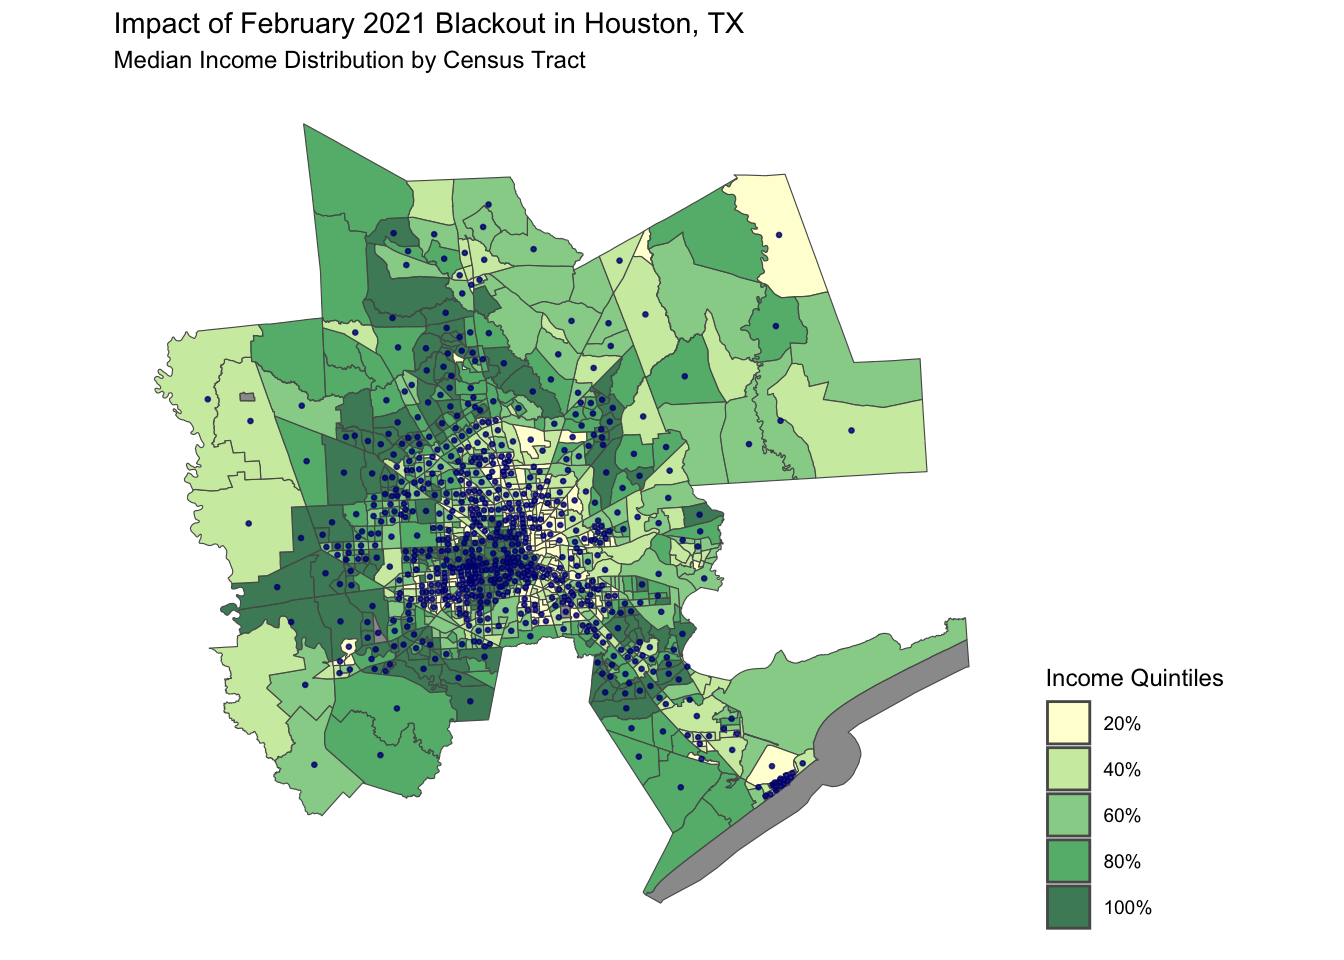
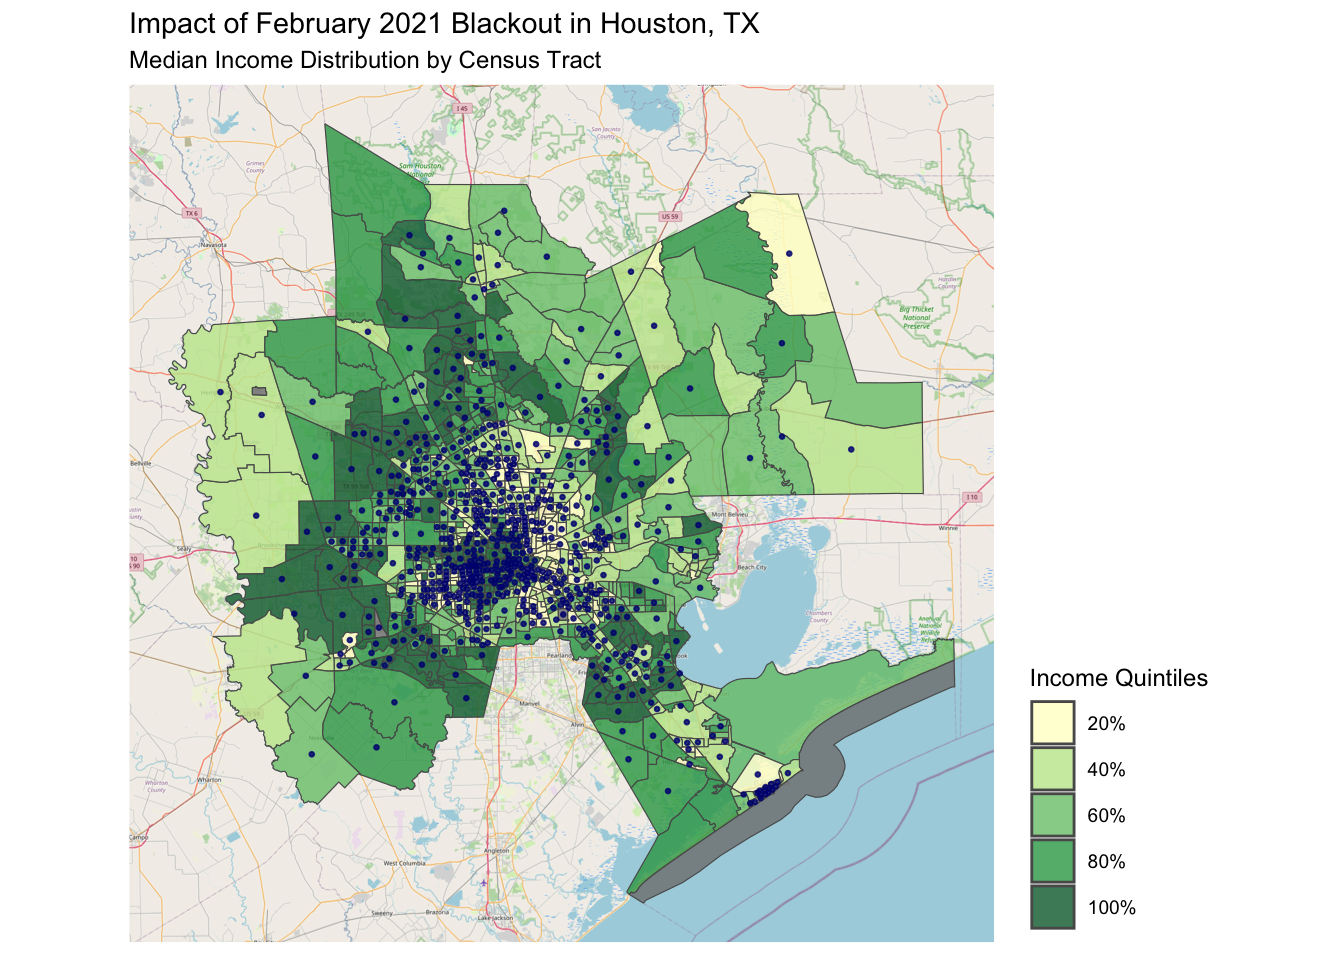
improved visualization with a basemap

diff --git a/docs/posts/2023-12-14-texas-great-blackout/index.html b/docs/posts/2023-12-14-texas-great-blackout/index.html
@@ -366,9 +366,20 @@ background-size: cover;
 <span id="cb3-4"><a href="#cb3-4" aria-hidden="true" tabindex="-1"></a><span class="co"># set locations that didn't experience blackout to NA </span></span>
 <span id="cb3-5"><a href="#cb3-5" aria-hidden="true" tabindex="-1"></a>blkout[blkout <span class="sc">==</span> <span class="cn">FALSE</span>] <span class="ot">&lt;-</span> <span class="cn">NA</span> </span></code><button title="Copy to Clipboard" class="code-copy-button"><i class="bi"></i></button></pre></div>
 </div>
-<p>To proceed, I narrowed down the blackout locations to the Houston metropolitan area by cropping the blackout raster to the area of interest.&nbsp; To do so I converted the raster with the blackout locations into an <code>sf</code> object and constructed a <code>polygon</code> with the boundaries of Houston metropolitan area.<br>
-</p>
-<p>⚠To maintain an accuracy of analysis I applied EPSG: 3083 (NAD83 / Texas Centric Albers Equal Area) projection for the cropped blackout dataset, specifically the dataframe with Houston metropolitan area geometries.</p>
+<p>To proceed, I narrowed down the blackout locations to the Houston metropolitan area by cropping the blackout raster to the area of interest.&nbsp; To do so I converted the raster with the blackout locations into an <code>sf</code> object and constructed a <code>polygon</code> with the boundaries of Houston metropolitan area.</p>
+<div class="callout callout-style-default callout-note callout-titled">
+<div class="callout-header d-flex align-content-center">
+<div class="callout-icon-container">
+<i class="callout-icon"></i>
+</div>
+<div class="callout-title-container flex-fill">
+Note
+</div>
+</div>
+<div class="callout-body-container callout-body">
+<p>To maintain an accuracy of analysis I applied EPSG: 3083 (NAD83 / Texas Centric Albers Equal Area) projection for the cropped blackout dataset, specifically the dataframe with Houston metropolitan area geometries.</p>
+</div>
+</div>
 <div class="cell">
 <div class="sourceCode cell-code" id="cb4"><pre class="sourceCode r code-with-copy"><code class="sourceCode r"><span id="cb4-1"><a href="#cb4-1" aria-hidden="true" tabindex="-1"></a><span class="co"># convert blackout mask to sf object</span></span>
 <span id="cb4-2"><a href="#cb4-2" aria-hidden="true" tabindex="-1"></a>blkout_sf <span class="ot">&lt;-</span> blkout <span class="sc">%&gt;%</span></span>
@@ -546,16 +557,17 @@ OR type in ('residential', 'apartments', 'house', 'static_caravan', 'detached')<
 <span id="cb15-19"><a href="#cb15-19" aria-hidden="true" tabindex="-1"></a></span>
 <span id="cb15-20"><a href="#cb15-20" aria-hidden="true" tabindex="-1"></a><span class="co"># plot a map</span></span>
 <span id="cb15-21"><a href="#cb15-21" aria-hidden="true" tabindex="-1"></a>m1 <span class="ot">&lt;-</span> <span class="fu">ggplot</span>() <span class="sc">+</span></span>
-<span id="cb15-22"><a href="#cb15-22" aria-hidden="true" tabindex="-1"></a>  <span class="fu">geom_sf</span>(<span class="at">data =</span> hstn_ct_blkout, <span class="fu">aes</span>(<span class="at">fill =</span> income_quintile), <span class="at">alpha =</span> <span class="fl">0.8</span>) <span class="sc">+</span></span>
-<span id="cb15-23"><a href="#cb15-23" aria-hidden="true" tabindex="-1"></a>  <span class="fu">scale_fill_manual</span>(<span class="at">values =</span> <span class="fu">setNames</span>(color_palette, quintiles_labs),</span>
-<span id="cb15-24"><a href="#cb15-24" aria-hidden="true" tabindex="-1"></a>                    <span class="at">name =</span> <span class="st">'Income Quintiles'</span>) <span class="sc">+</span></span>
-<span id="cb15-25"><a href="#cb15-25" aria-hidden="true" tabindex="-1"></a>  <span class="fu">geom_sf</span>(<span class="at">data =</span> ct_centroids, <span class="at">size =</span> <span class="fl">0.5</span>, <span class="at">color =</span> <span class="st">'#000080'</span>, <span class="at">alpha =</span> <span class="fl">0.8</span>) <span class="sc">+</span></span>
-<span id="cb15-26"><a href="#cb15-26" aria-hidden="true" tabindex="-1"></a>  <span class="fu">labs</span>(</span>
-<span id="cb15-27"><a href="#cb15-27" aria-hidden="true" tabindex="-1"></a>    <span class="at">title =</span> <span class="st">'Impact of February 2021 Blackout in Houston, TX'</span>,</span>
-<span id="cb15-28"><a href="#cb15-28" aria-hidden="true" tabindex="-1"></a>    <span class="at">subtitle =</span> <span class="st">'Median Income Distribution by Census Tract'</span>) <span class="sc">+</span></span>
-<span id="cb15-29"><a href="#cb15-29" aria-hidden="true" tabindex="-1"></a>  <span class="fu">theme_map</span>() <span class="sc">+</span></span>
-<span id="cb15-30"><a href="#cb15-30" aria-hidden="true" tabindex="-1"></a>  <span class="fu">theme</span>(<span class="at">legend.position =</span> <span class="st">"right"</span>)</span>
-<span id="cb15-31"><a href="#cb15-31" aria-hidden="true" tabindex="-1"></a>m1</span></code><button title="Copy to Clipboard" class="code-copy-button"><i class="bi"></i></button></pre></div>
+<span id="cb15-22"><a href="#cb15-22" aria-hidden="true" tabindex="-1"></a>  <span class="fu">annotation_map_tile</span>(<span class="at">zoom =</span> <span class="dv">10</span>, <span class="at">cachedir =</span> <span class="fu">system.file</span>(<span class="st">"rosm.cache"</span>, <span class="at">package =</span> <span class="st">"ggspatial"</span>)) <span class="sc">+</span></span>
+<span id="cb15-23"><a href="#cb15-23" aria-hidden="true" tabindex="-1"></a>  <span class="fu">geom_sf</span>(<span class="at">data =</span> hstn_ct_blkout, <span class="fu">aes</span>(<span class="at">fill =</span> income_quintile), <span class="at">alpha =</span> <span class="fl">0.8</span>) <span class="sc">+</span></span>
+<span id="cb15-24"><a href="#cb15-24" aria-hidden="true" tabindex="-1"></a>  <span class="fu">scale_fill_manual</span>(<span class="at">values =</span> <span class="fu">setNames</span>(color_palette, quintiles_labs),</span>
+<span id="cb15-25"><a href="#cb15-25" aria-hidden="true" tabindex="-1"></a>                    <span class="at">name =</span> <span class="st">'Income Quintiles'</span>) <span class="sc">+</span></span>
+<span id="cb15-26"><a href="#cb15-26" aria-hidden="true" tabindex="-1"></a>  <span class="fu">geom_sf</span>(<span class="at">data =</span> ct_centroids, <span class="at">size =</span> <span class="fl">0.5</span>, <span class="at">color =</span> <span class="st">'#000080'</span>, <span class="at">alpha =</span> <span class="fl">0.8</span>) <span class="sc">+</span></span>
+<span id="cb15-27"><a href="#cb15-27" aria-hidden="true" tabindex="-1"></a>  <span class="fu">labs</span>(</span>
+<span id="cb15-28"><a href="#cb15-28" aria-hidden="true" tabindex="-1"></a>    <span class="at">title =</span> <span class="st">'Impact of February 2021 Blackout in Houston, TX'</span>,</span>
+<span id="cb15-29"><a href="#cb15-29" aria-hidden="true" tabindex="-1"></a>    <span class="at">subtitle =</span> <span class="st">'Median Income Distribution by Census Tract'</span>) <span class="sc">+</span></span>
+<span id="cb15-30"><a href="#cb15-30" aria-hidden="true" tabindex="-1"></a>  <span class="fu">theme_map</span>() <span class="sc">+</span></span>
+<span id="cb15-31"><a href="#cb15-31" aria-hidden="true" tabindex="-1"></a>  <span class="fu">theme</span>(<span class="at">legend.position =</span> <span class="st">"right"</span>)</span>
+<span id="cb15-32"><a href="#cb15-32" aria-hidden="true" tabindex="-1"></a>m1</span></code><button title="Copy to Clipboard" class="code-copy-button"><i class="bi"></i></button></pre></div>
 </details>
 <div class="cell-output-display">
 <p><img src="index_files/figure-html/blackout_by_income_map-1.png" class="img-fluid" width="672"></p>
@@ -621,19 +633,7 @@ OR type in ('residential', 'apartments', 'house', 'static_caravan', 'detached')<
 </section>
 </section>
 
-<div id="quarto-appendix" class="default"><section class="quarto-appendix-contents"><h2 class="anchored quarto-appendix-heading">Citation</h2><div><div class="quarto-appendix-secondary-label">BibTeX citation:</div><pre class="sourceCode code-with-copy quarto-appendix-bibtex"><code class="sourceCode bibtex">@online{protsukha2023,
-  author = {Protsukha, Oksana},
-  title = {Analysis of the {Impact} of {Socio-Economic} {Indicators} on
-    {Recovery} {From} the 2021 {Texas} {Electric} {Grid} {Blackout}},
-  date = {2023-12-14},
-  url = {https://oksanaprotsukha.github.io/portfolio/projects/2023-11-06-my-first-post.html},
-  langid = {en}
-}
-</code><button title="Copy to Clipboard" class="code-copy-button"><i class="bi"></i></button></pre><div class="quarto-appendix-secondary-label">For attribution, please cite this work as:</div><div id="ref-protsukha2023" class="csl-entry quarto-appendix-citeas" role="listitem">
-Protsukha, Oksana. 2023. <span>“Analysis of the Impact of Socio-Economic
-Indicators on Recovery From the 2021 Texas Electric Grid
-Blackout.”</span> December 14, 2023. <a href="https://oksanaprotsukha.github.io/portfolio/projects/2023-11-06-my-first-post.html">https://oksanaprotsukha.github.io/portfolio/projects/2023-11-06-my-first-post.html</a>.
-</div></div></section></div></main> <!-- /main -->
+</main> <!-- /main -->
 <script id="quarto-html-after-body" type="application/javascript">
 window.document.addEventListener("DOMContentLoaded", function (event) {
   const toggleBodyColorMode = (bsSheetEl) => {

diff --git a/docs/posts.html b/docs/posts.html
@@ -143,7 +143,7 @@ ul.task-list li input[type="checkbox"] {
 <!-- margin-sidebar -->
     <div id="quarto-margin-sidebar" class="sidebar margin-sidebar">
         
-    <h5 class="quarto-listing-category-title">Categories</h5><div class="quarto-listing-category category-default"><div class="category" data-category="">All <span class="quarto-category-count">(6)</span></div><div class="category" data-category="Air Quality">Air Quality <span class="quarto-category-count">(1)</span></div><div class="category" data-category="Data Science">Data Science <span class="quarto-category-count">(1)</span></div><div class="category" data-category="EV">EV <span class="quarto-category-count">(1)</span></div><div class="category" data-category="Energy">Energy <span class="quarto-category-count">(3)</span></div><div class="category" data-category="Environmental Justice">Environmental Justice <span class="quarto-category-count">(2)</span></div><div class="category" data-category="Environmental writing">Environmental writing <span class="quarto-category-count">(1)</span></div><div class="category" data-category="GeoSpatial">GeoSpatial <span class="quarto-category-count">(2)</span></div><div class="category" data-category="Python">Python <span class="quarto-category-count">(1)</span></div><div class="category" data-category="R">R <span class="quarto-category-count">(2)</span></div><div class="category" data-category="Renewables">Renewables <span class="quarto-category-count">(1)</span></div><div class="category" data-category="Statistics">Statistics <span class="quarto-category-count">(1)</span></div><div class="category" data-category="Wild Fires">Wild Fires <span class="quarto-category-count">(1)</span></div></div></div>
+    <h5 class="quarto-listing-category-title">Categories</h5><div class="quarto-listing-category category-default"><div class="category" data-category="">All <span class="quarto-category-count">(5)</span></div><div class="category" data-category="Air Quality">Air Quality <span class="quarto-category-count">(1)</span></div><div class="category" data-category="Data Science">Data Science <span class="quarto-category-count">(1)</span></div><div class="category" data-category="EV">EV <span class="quarto-category-count">(1)</span></div><div class="category" data-category="Energy">Energy <span class="quarto-category-count">(3)</span></div><div class="category" data-category="Environmental Justice">Environmental Justice <span class="quarto-category-count">(2)</span></div><div class="category" data-category="Environmental writing">Environmental writing <span class="quarto-category-count">(1)</span></div><div class="category" data-category="GeoSpatial">GeoSpatial <span class="quarto-category-count">(2)</span></div><div class="category" data-category="Python">Python <span class="quarto-category-count">(1)</span></div><div class="category" data-category="R">R <span class="quarto-category-count">(2)</span></div><div class="category" data-category="Renewables">Renewables <span class="quarto-category-count">(1)</span></div><div class="category" data-category="Statistics">Statistics <span class="quarto-category-count">(1)</span></div><div class="category" data-category="Wild Fires">Wild Fires <span class="quarto-category-count">(1)</span></div></div></div>
 <!-- main -->
 <main class="content column-page-left" id="quarto-document-content">
 
@@ -170,27 +170,7 @@ ul.task-list li input[type="checkbox"] {
 
 <div class="quarto-listing quarto-listing-container-grid" id="listing-listing">
 <div class="list grid quarto-listing-cols-3">
-<div class="g-col-1" data-index="0" data-listing-file-modified-sort="1703719547460" data-listing-reading-time-sort="2">
-<a href="./posts/python_notebook_render/STAC-search.html" class="quarto-grid-link">
-<div class="quarto-grid-item card h-100 card-left">
-<p class="card-img-top"><img src="https://planetarycomputer.microsoft.com/api/data/v1/item/preview.png?collection=naip&item=ca_m_3411935_sw_11_060_20200521&assets=image&asset_bidx=image|1%2C2%2C3&format=png" style="height: 150px;"  class="thumbnail-image card-img"/></p>
-<div class="card-body post-contents">
-<h5 class="no-anchor card-title listing-title">
-ipynb rendered as html
-</h5>
-<div class="card-text listing-description">
-This post was rendered from a .ipynb file through quarto
-</div>
-<div class="card-attribution card-text-small start">
-<div class="listing-author">
-
-</div>
-</div>
-</div>
-</div>
-</a>
-</div>
-<div class="g-col-1" data-index="1" data-categories="Data Science,Environmental Justice" data-listing-date-sort="1703664000000" data-listing-file-modified-sort="1703720645914" data-listing-date-modified-sort="NaN" data-listing-reading-time-sort="14">
+<div class="g-col-1" data-index="0" data-categories="Data Science,Environmental Justice" data-listing-date-sort="1703664000000" data-listing-file-modified-sort="1703720645914" data-listing-date-modified-sort="NaN" data-listing-reading-time-sort="14">
 <a href="./posts/2023-12-27-bias-in-data-science/index.html" class="quarto-grid-link">
 <div class="quarto-grid-item card h-100 card-left">
 <p class="card-img-top">
@@ -223,7 +203,7 @@ Dec 27, 2023
 </div>
 </a>
 </div>
-<div class="g-col-1" data-index="2" data-categories="Statistics,R,Energy,EV" data-listing-date-sort="1702627200000" data-listing-file-modified-sort="1703736187286" data-listing-date-modified-sort="NaN" data-listing-reading-time-sort="12">
+<div class="g-col-1" data-index="1" data-categories="Statistics,R,Energy,EV" data-listing-date-sort="1702627200000" data-listing-file-modified-sort="1704000109265" data-listing-date-modified-sort="NaN" data-listing-reading-time-sort="12">
 <a href="./posts/2023-12-15-se-ev-infrastructure/index.html" class="quarto-grid-link">
 <div class="quarto-grid-item card h-100 card-left">
 <p class="card-img-top">
@@ -262,7 +242,7 @@ Dec 15, 2023
 </div>
 </a>
 </div>
-<div class="g-col-1" data-index="3" data-categories="GeoSpatial,Energy,Environmental Justice,R" data-listing-date-sort="1702540800000" data-listing-file-modified-sort="1702695525400" data-listing-date-modified-sort="NaN" data-listing-reading-time-sort="16">
+<div class="g-col-1" data-index="2" data-categories="GeoSpatial,Energy,Environmental Justice,R" data-listing-date-sort="1702540800000" data-listing-file-modified-sort="1704000213450" data-listing-date-modified-sort="NaN" data-listing-reading-time-sort="16">
 <a href="./posts/2023-12-14-texas-great-blackout/index.html" class="quarto-grid-link">
 <div class="quarto-grid-item card h-100 card-left">
 <p class="card-img-top">
@@ -301,7 +281,7 @@ Dec 14, 2023
 </div>
 </a>
 </div>
-<div class="g-col-1" data-index="4" data-categories="GeoSpatial,Python,Wild Fires,Air Quality" data-listing-date-sort="1702368000000" data-listing-file-modified-sort="1703720720326" data-listing-date-modified-sort="NaN" data-listing-reading-time-sort="7">
+<div class="g-col-1" data-index="3" data-categories="GeoSpatial,Python,Wild Fires,Air Quality" data-listing-date-sort="1702368000000" data-listing-file-modified-sort="1703720720326" data-listing-date-modified-sort="NaN" data-listing-reading-time-sort="7">
 <a href="./posts/2023-12-12-thomas-fire/index.html" class="quarto-grid-link">
 <div class="quarto-grid-item card h-100 card-left">
 <p class="card-img-top">
@@ -340,7 +320,7 @@ Dec 12, 2023
 </div>
 </a>
 </div>
-<div class="g-col-1" data-index="5" data-categories="Energy,Renewables,Environmental writing" data-listing-date-sort="1702022400000" data-listing-file-modified-sort="1703719547438" data-listing-date-modified-sort="NaN" data-listing-reading-time-sort="4">
+<div class="g-col-1" data-index="4" data-categories="Energy,Renewables,Environmental writing" data-listing-date-sort="1702022400000" data-listing-file-modified-sort="1703719547438" data-listing-date-modified-sort="NaN" data-listing-reading-time-sort="4">
 <a href="./posts/2023-12-08-dunkelflaute/index.html" class="quarto-grid-link">
 <div class="quarto-grid-item card h-100 card-left">
 <p class="card-img-top">
